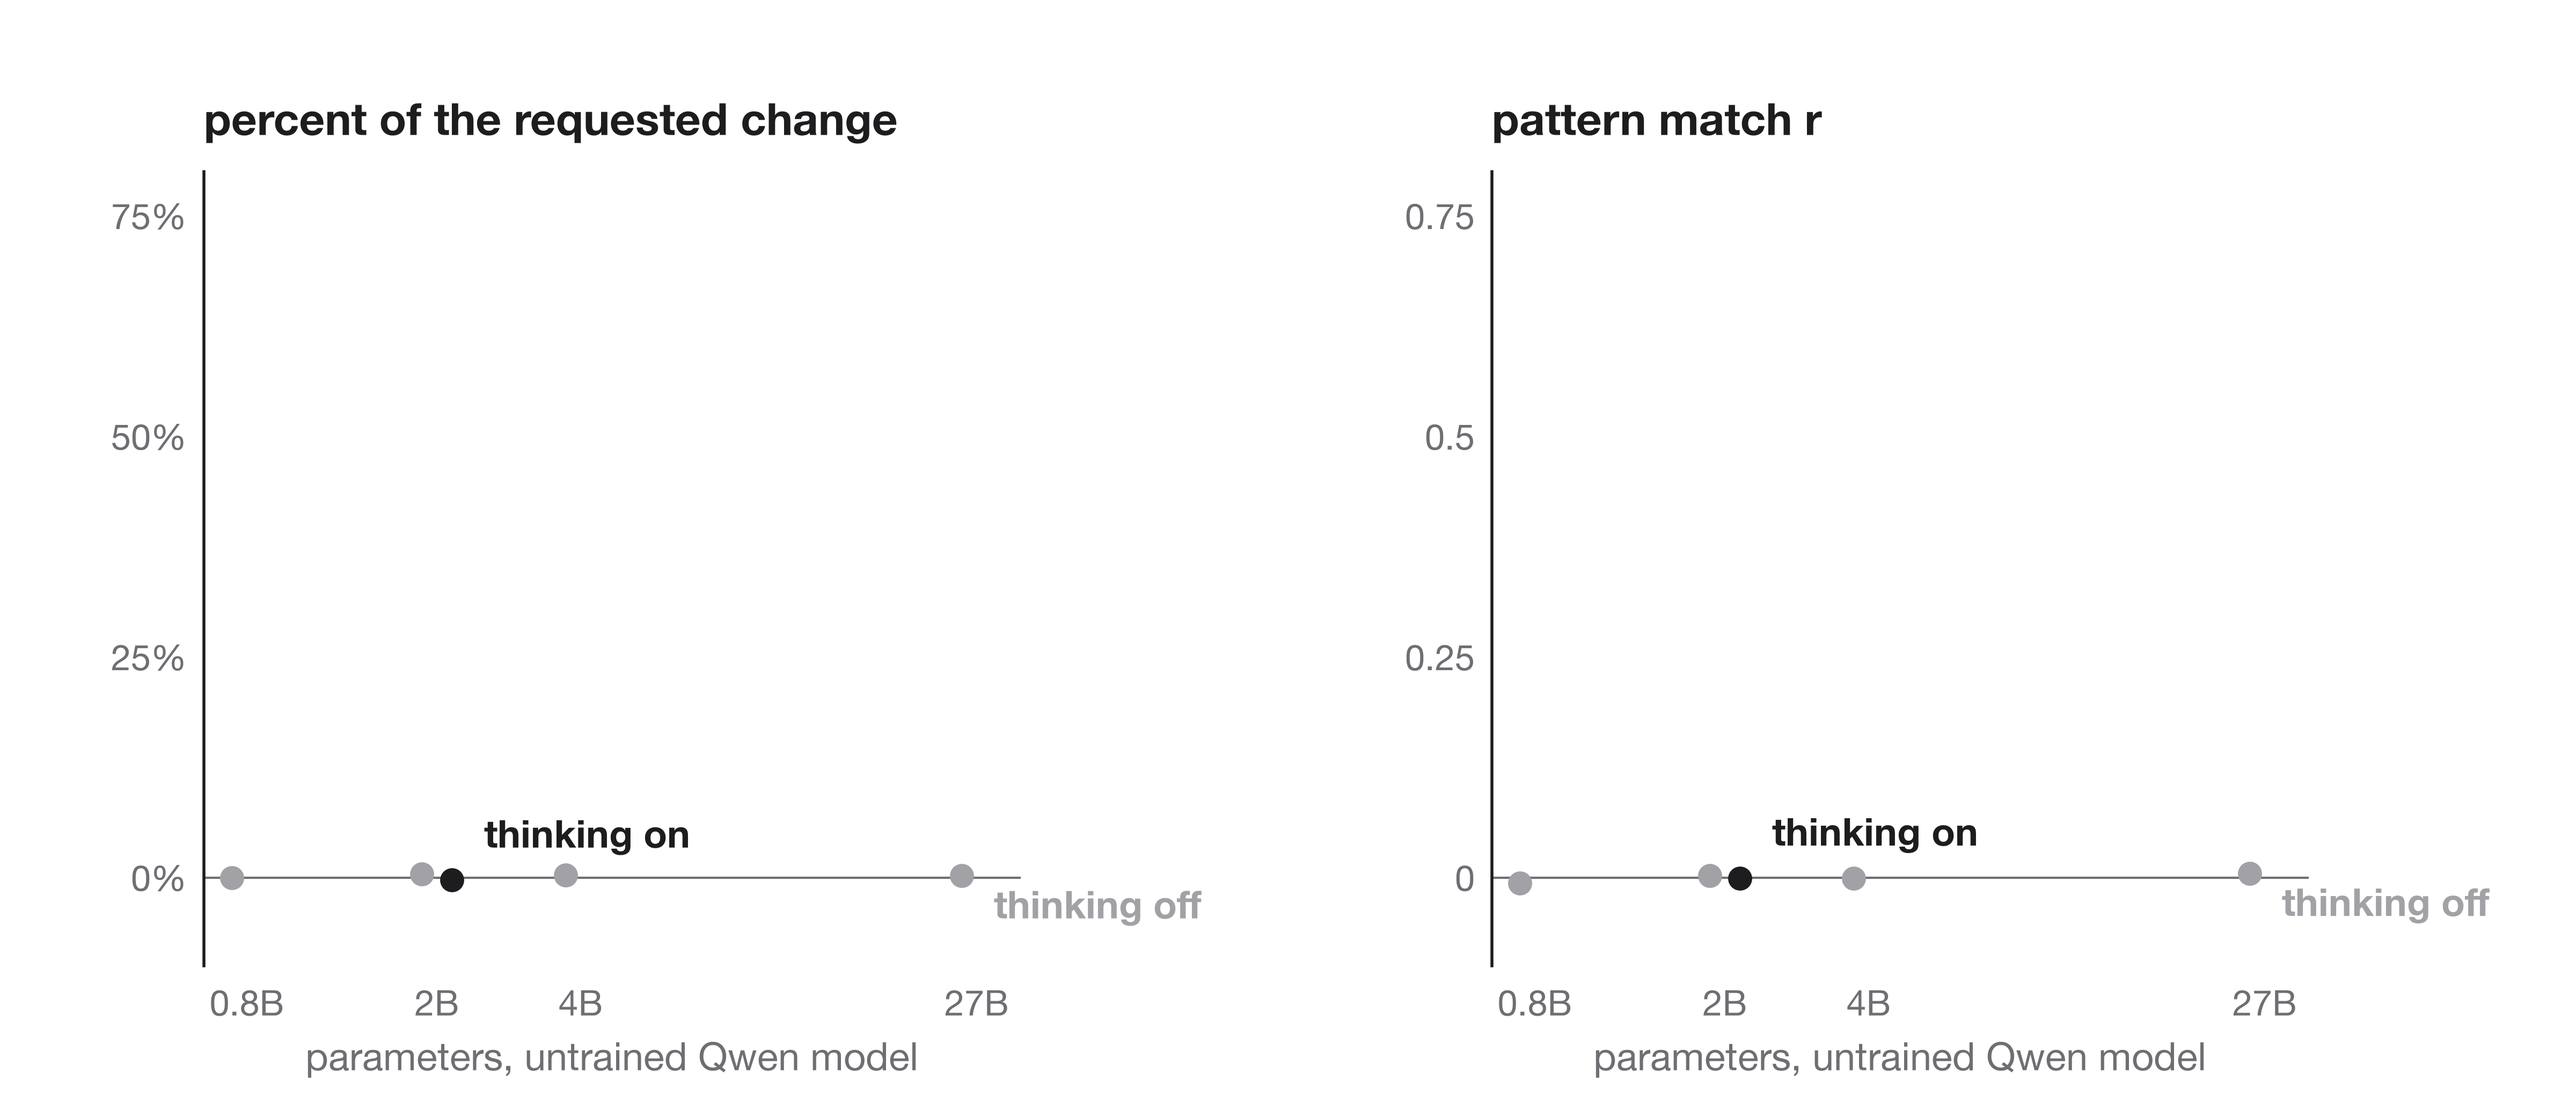
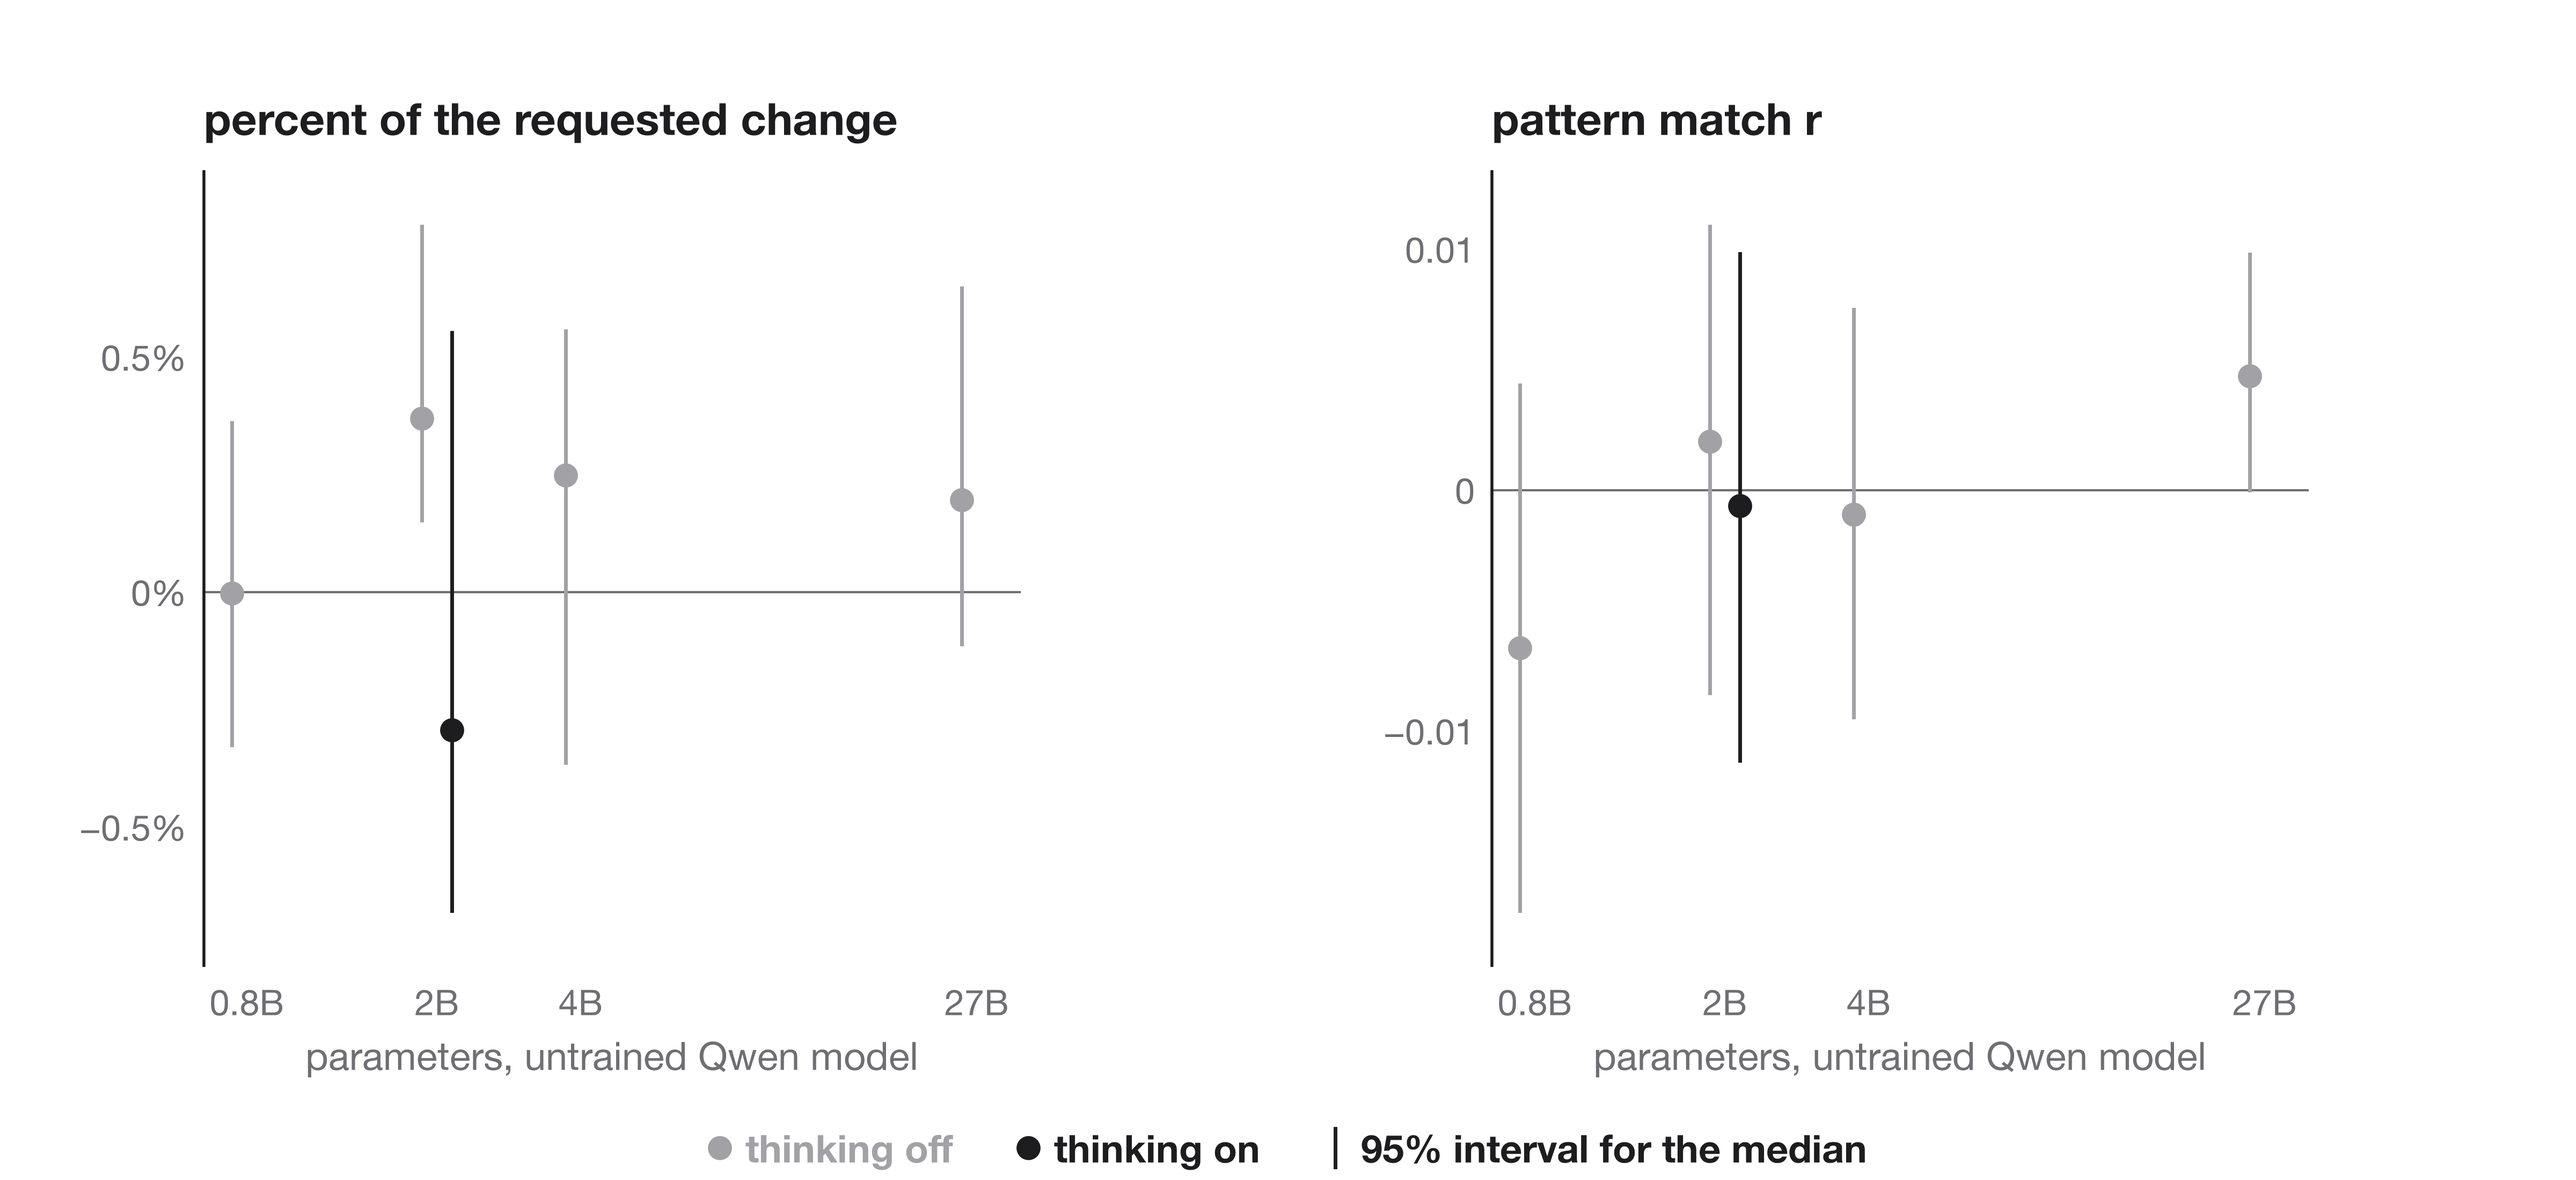
Size-sweep figure: y axes scaled to the data, one legend line with the 95% interval for the median; README gives the exact medians

diff --git a/figures/make_figures.py b/figures/make_figures.py
@@ -1247,32 +1247,41 @@ def zeroshot():
     with thinking on."""
     Z = {m: load(f"zeroshot/{m}.json") for m, _ in ZS_MODELS if (RES / "zeroshot" / f"{m}.json").exists()}
     fig, ax = canvas(1100, 2 * W)
-    panels = (("percent of the requested change", "frac", ((0, "0%"), (0.25, "25%"), (0.5, "50%"), (0.75, "75%"))),
-              ("pattern match r", "r", ((0, "0"), (0.25, "0.25"), (0.5, "0.5"), (0.75, "0.75"))))
-    lo, hi = -0.1, 0.8
-    for p, (title, k, ticks) in enumerate(panels):
+    arms = (("think_off", ORIG, -14, "thinking off"), ("think_on", INK, 14, "thinking on"))
+    for p, (title, k) in enumerate((("percent of the requested change", "frac"), ("pattern match r", "r"))):
+        pts = {key: [(s, median_interval([it[k] for st in Z[m][key].values() for it in st["items"]], k))
+                     for m, s in ZS_MODELS if m in Z and Z[m][key]] for key, *_ in arms}
+        ends = [e for v in pts.values() for _, (_, cl, ch) in v for e in (cl, ch)] + [0]
+        lo, hi = min(ends), max(ends)
+        lo, hi = lo - 0.08 * (hi - lo), hi + 0.08 * (hi - lo)
         x0, x1, y0, y1 = 190 + p * W, (p + 1) * W - 250, 200, 940
         sx = lambda s: x0 + 40 + (x1 - x0 - 80) * np.log(s / 0.8) / np.log(27 / 0.8)
         sy = lambda v: y0 + (y1 - y0) * (v - lo) / (hi - lo)
         ax.plot([x0, x0], [y0, y1], color=INK, lw=2, zorder=2)
         ax.plot([x0, x1], [sy(0)] * 2, color=MUTED, lw=1.5, zorder=1)
-        for v, lab in ticks:
-            write(ax, x0 - 16, sy(v), lab, 24, color=MUTED, ha="right")
+        for t in MaxNLocator(4).tick_values(lo, hi):
+            if lo <= t <= hi:
+                lab = f"{100 * t:.1f}%" if k == "frac" else f"{t:.2f}"
+                write(ax, x0 - 16, sy(t), "0%" if k == "frac" and abs(t) < 1e-9 else "0" if abs(t) < 1e-9 else
+                      lab.replace("-", "−"), 24, color=MUTED, ha="right")
         for m, s in ZS_MODELS:
             if m in Z:
                 write(ax, sx(s), y0 - 34, f"{s:g}B", 24, color=MUTED)
         write(ax, (x0 + x1) / 2, y0 - 84, "parameters, untrained Qwen model", 26, color=MUTED)
         write(ax, x0, y1 + 50, title, 30, True, ha="left")
-        for key, col, dx, lab in (("think_off", ORIG, -14, "thinking off"), ("think_on", INK, 14, "thinking on")):
-            pts = [(s, median_interval([it[k] for st in Z[m][key].values() for it in st["items"]], k))
-                   for m, s in ZS_MODELS if m in Z and Z[m][key]]
-            for s, (mu, cl, ch) in pts:
+        for key, col, dx, lab in arms:
+            for s, (mu, cl, ch) in pts[key]:
                 ax.plot([sx(s) + dx] * 2, [sy(cl), sy(ch)], color=col, lw=2.5, zorder=3)
                 ax.scatter([sx(s) + dx], [sy(mu)], s=260, color=col, lw=0, zorder=4)
-            if pts:
-                s, (mu, _, _) = pts[-1]
-                write(ax, sx(s) + dx + 30, sy(mu) + (44 if dx > 0 else -26), lab, 26, True, col, ha="left")
-    crop(fig, ax, 60, 1100)
+    lx = W - (sum(text_width(ax, lab, 26, True) for *_, lab in arms) + text_width(ax, "95% interval for the median", 26, True)
+              + 3 * 34 + 2 * 60) / 2
+    for _, col, _, lab in arms:
+        ax.scatter([lx + 10], [30], s=260, color=col, lw=0, zorder=4)
+        write(ax, lx + 34, 30, lab, 26, True, col, ha="left")
+        lx += 34 + text_width(ax, lab, 26, True) + 60
+    ax.plot([lx + 10] * 2, [12, 48], color=INK, lw=2.5)
+    write(ax, lx + 34, 30, "95% interval for the median", 26, True, ha="left")
+    crop(fig, ax, 0, 1100)
     save(fig, "zeroshot")
 
 

diff --git a/README.md b/README.md
@@ -48,9 +48,9 @@ Instructions from four test sets, each between the 35th and 65th percentile of i
 
 On held-out layer and token patterns, the trained model changes its representations as its own plan says, even where the plan is wrong. Red outlines mark where a plan differs from the instruction: for alternating tokens it plans every reply token, for fading it plans a rise, for powers of two it adds layer 24, and for prime layers it adds layer 37, which the model does not have.
 
-![Untrained Qwen models of other sizes](figures/zeroshot.png?v=1020z)
+![Untrained Qwen models of other sizes](figures/zeroshot.png?v=1020y)
 
-Untrained Qwen models make none of the requested change at any size we tried. On the same test instructions (48 from each of the 8 test sets), Qwen3.5-0.8B, Qwen3.5-2B, Qwen3.5-4B and Qwen3.8-27B with thinking off make 0% of the requested change, with pattern match r between −0.01 and 0.01 (medians over 384 instructions). With thinking on (sampled at temperature 0.6, top-p 0.95, up to 4096 thinking tokens, then a greedy reply), Qwen3.5-2B also makes 0%; it ends its thinking on its own in only 3% of answers, and the rest are closed by hand at 4096 tokens. Thinking-on runs of the other sizes, and a 9B run, did not finish.
+Untrained Qwen models make none of the requested change at any size we tried. On the same test instructions (48 from each of the 8 test sets), Qwen3.5-0.8B, Qwen3.5-2B, Qwen3.5-4B and Qwen3.8-27B with thinking off make at most 0.4% of the requested change, with pattern match r between −0.01 and 0.01 (medians over 384 instructions). With thinking on (sampled at temperature 0.6, top-p 0.95, up to 4096 thinking tokens, then a greedy reply), Qwen3.5-2B makes −0.3%; it ends its thinking on its own in only 3% of answers, and the rest are closed by hand at 4096 tokens. Thinking-on runs of the other sizes, and a 9B run, did not finish.
 
 ## Activation Controllability Benchmark
 
